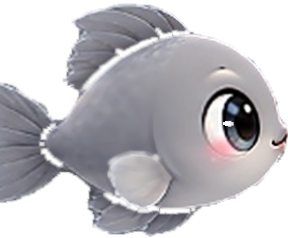
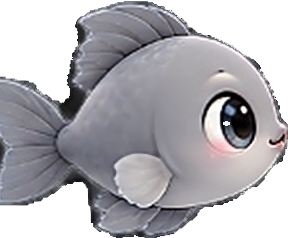
fix(sprites): restore 100% solid opacity inside fish body, preserve natural black textures, and clean only outer border fringe

diff --git a/src/components/modals/CoupleModal.tsx b/src/components/modals/CoupleModal.tsx
@@ -70,7 +70,7 @@ export function CoupleModal({ isOpen, onClose }: CoupleModalProps) {
           >
             <div className="w-14 h-14 mx-auto rounded-xl bg-white border border-[#CBD7DF] flex items-center justify-center shadow-2xs p-1.5 overflow-hidden">
               <img
-                src={`/fish/candut_stage${aquarium.current_level >= 401 ? 5 : aquarium.current_level >= 301 ? 4 : aquarium.current_level >= 201 ? 3 : aquarium.current_level >= 101 ? 2 : 1}.png?v=3`}
+                src={`/fish/candut_stage${aquarium.current_level >= 401 ? 5 : aquarium.current_level >= 301 ? 4 : aquarium.current_level >= 201 ? 3 : aquarium.current_level >= 101 ? 2 : 1}.png?v=4`}
                 alt="Candut"
                 className={`w-full h-full object-contain transition-transform ${aquarium.current_level < 101 ? 'scale-[0.84]' : ''}`}
               />
@@ -102,7 +102,7 @@ export function CoupleModal({ isOpen, onClose }: CoupleModalProps) {
           >
             <div className="w-14 h-14 mx-auto rounded-xl bg-white border border-[#F3C5D1] flex items-center justify-center shadow-2xs p-1.5 overflow-hidden">
               <img
-                src={`/fish/repa_stage${aquarium.current_level >= 401 ? 5 : aquarium.current_level >= 301 ? 4 : aquarium.current_level >= 201 ? 3 : aquarium.current_level >= 101 ? 2 : 1}.png?v=3`}
+                src={`/fish/repa_stage${aquarium.current_level >= 401 ? 5 : aquarium.current_level >= 301 ? 4 : aquarium.current_level >= 201 ? 3 : aquarium.current_level >= 101 ? 2 : 1}.png?v=4`}
                 alt="Saridut"
                 className={`w-full h-full object-contain transition-transform ${aquarium.current_level < 101 ? 'scale-[0.84]' : ''}`}
               />

diff --git a/src/components/modals/LevelRoadmapModal.tsx b/src/components/modals/LevelRoadmapModal.tsx
@@ -130,14 +130,14 @@ export function LevelRoadmapModal({ isOpen, onClose }: LevelRoadmapModalProps) {
                       <div className="flex items-center -space-x-1.5">
                         <div className="w-7 h-7 sm:w-8 sm:h-8 rounded-lg bg-white border border-[#CBD7DF] p-0.5 shadow-2xs flex items-center justify-center overflow-hidden">
                           <img
-                            src={`/fish/candut_stage${m.stage}.png?v=3`}
+                            src={`/fish/candut_stage${m.stage}.png?v=4`}
                             alt={`Candut Tahap ${m.stage}`}
                             className={`w-full h-full object-contain transition-transform ${m.stage === 1 ? 'scale-[0.80]' : ''}`}
                           />
                         </div>
                         <div className="w-7 h-7 sm:w-8 sm:h-8 rounded-lg bg-white border border-[#F3C5D1] p-0.5 shadow-2xs flex items-center justify-center overflow-hidden">
                           <img
-                            src={`/fish/repa_stage${m.stage}.png?v=3`}
+                            src={`/fish/repa_stage${m.stage}.png?v=4`}
                             alt={`Saridut Tahap ${m.stage}`}
                             className={`w-full h-full object-contain transition-transform ${m.stage === 1 ? 'scale-[0.80]' : ''}`}
                           />

diff --git a/src/components/aquarium/AquariumCanvas.tsx b/src/components/aquarium/AquariumCanvas.tsx
@@ -109,14 +109,14 @@ export function AquariumCanvas({ onTapLocation }: AquariumCanvasProps) {
       const cKey = `candut_${stage}`;
       if (!fishSpritesRef.current[cKey]) {
         const cImg = new Image();
-        cImg.src = `/fish/candut_stage${stage}.png?v=3`;
+        cImg.src = `/fish/candut_stage${stage}.png?v=4`;
         fishSpritesRef.current[cKey] = cImg;
       }
 
       const rKey = `repa_${stage}`;
       if (!fishSpritesRef.current[rKey]) {
         const rImg = new Image();
-        rImg.src = `/fish/repa_stage${stage}.png?v=3`;
+        rImg.src = `/fish/repa_stage${stage}.png?v=4`;
         fishSpritesRef.current[rKey] = rImg;
       }
     }

diff --git a/scripts/process_fish_perfect.py b/scripts/process_fish_perfect.py
@@ -5,19 +5,19 @@ from collections import deque
 
 FISH_DIR = 'public/fish'
 
-def clean_sprite_perfect(image_path, role):
-    im = Image.open(image_path).convert('RGBA')
+def process_fish_solid_and_clean_edge(img_path, role, stage):
+    im = Image.open(img_path).convert('RGBA')
     w, h = im.size
-    arr = np.array(im).astype(np.float32)
-    rgb = arr[:, :, :3]
-    alpha = arr[:, :, 3]
-
-    filename = os.path.basename(image_path)
+    arr = np.array(im)
+    rgb = arr[:, :, :3].copy()
+    alpha = arr[:, :, 3].copy()
+    
+    filename = os.path.basename(img_path)
     is_repa4 = 'repa_stage4' in filename
     is_repa5 = 'repa_stage5' in filename
     is_candut5 = 'candut_stage5' in filename
 
-    # 1. Clear known external crop/box artifacts
+    # Known rectangular crop boxes at extreme corners (transparent border padding)
     if is_repa4:
         alpha[341:, :] = 0
     if is_repa5:
@@ -28,82 +28,45 @@ def clean_sprite_perfect(image_path, role):
         alpha[390:445, 460:] = 0
         alpha[-15:, 460:] = 0
 
-    # Eliminate faint low-alpha noise
-    alpha[alpha < 18] = 0
-
-    # 2. Identify the eye region to protect black pupil and sparkling reflections
-    eye_mask = np.zeros((h, w), dtype=bool)
-    x_min, x_max = int(w * 0.62), int(w * 0.90)
-    y_min, y_max = int(h * 0.30), int(h * 0.70)
-    eye_mask[y_min:y_max, x_min:x_max] = True
-
-    # 3. Flood-fill from borders to clear any connected black background remnants
-    bg_seed = (alpha == 0)
-    dark_thresh = 65
-    bg_seed[0, :] |= (rgb[0, :, :].mean(axis=1) < dark_thresh)
-    bg_seed[-1, :] |= (rgb[-1, :, :].mean(axis=1) < dark_thresh)
-    bg_seed[:, 0] |= (rgb[:, 0, :].mean(axis=1) < dark_thresh)
-    bg_seed[:, -1] |= (rgb[:, -1, :].mean(axis=1) < dark_thresh)
-
-    bg_visited = np.zeros((h, w), dtype=bool)
+    # 1. Background identification via flood fill from 4 canvas borders
+    # Only pixels connected to canvas borders with low alpha or dark empty space are background
+    visited_bg = np.zeros((h, w), dtype=bool)
     q = deque()
+    
+    # Border pixels seed
     for y in range(h):
         for x in [0, w - 1]:
-            if bg_seed[y, x] and not bg_visited[y, x]:
-                bg_visited[y, x] = True
+            if alpha[y, x] < 60:
+                visited_bg[y, x] = True
                 q.append((y, x))
     for x in range(w):
         for y in [0, h - 1]:
-            if bg_seed[y, x] and not bg_visited[y, x]:
-                bg_visited[y, x] = True
+            if not visited_bg[y, x] and alpha[y, x] < 60:
+                visited_bg[y, x] = True
                 q.append((y, x))
 
     while q:
         cy, cx = q.popleft()
-        for dy, dx in [(-1, 0), (1, 0), (0, -1), (0, 1)]:
+        for dy, dx in [(-1,0), (1,0), (0,-1), (0,1)]:
             ny, nx = cy + dy, cx + dx
-            if 0 <= ny < h and 0 <= nx < w and not bg_visited[ny, nx]:
-                is_dark = (rgb[ny, nx].mean() < 60) and not eye_mask[ny, nx]
-                is_trans = (alpha[ny, nx] < 120)
-                if is_trans or is_dark:
-                    bg_visited[ny, nx] = True
+            if 0 <= ny < h and 0 <= nx < w and not visited_bg[ny, nx]:
+                # Background flood fill: low alpha (transparent) OR black fringe touching the outer edge
+                # STRICTLY alpha < 35 or (alpha < 100 and very low brightness < 30)
+                # NEVER penetrate solid body pixels!
+                if alpha[ny, nx] < 35 or (alpha[ny, nx] < 100 and np.mean(rgb[ny, nx]) < 30):
+                    visited_bg[ny, nx] = True
                     q.append((ny, nx))
 
-    alpha[bg_visited] = 0
+    # Fish body silhouette is EVERYTHING not reached by the outside background flood fill!
+    fish_mask = ~visited_bg
 
-    # 4. Remove dark pockets trapped between fins outside the eye
-    dark_opaque = (alpha > 0) & (rgb.mean(axis=2) < 55) & (~eye_mask)
-    if np.any(dark_opaque):
-        visited_comp = np.zeros((h, w), dtype=bool)
-        for y in range(h):
-            for x in range(w):
-                if dark_opaque[y, x] and not visited_comp[y, x]:
-                    comp = []
-                    cq = [(y, x)]
-                    visited_comp[y, x] = True
-                    while cq:
-                        py, px = cq.pop()
-                        comp.append((py, px))
-                        for dy, dx in [(-1, 0), (1, 0), (0, -1), (0, 1)]:
-                            my, mx = py + dy, px + dx
-                            if 0 <= my < h and 0 <= mx < w and dark_opaque[my, mx] and not visited_comp[my, mx]:
-                                visited_comp[my, mx] = True
-                                cq.append((my, mx))
-                    c_ys = [p[0] for p in comp]
-                    c_xs = [p[1] for p in comp]
-                    mean_x = np.mean(c_xs)
-                    if mean_x < w * 0.62 or np.mean(c_ys) < h * 0.3 or np.mean(c_ys) > h * 0.72:
-                        for py, px in comp:
-                            alpha[py, px] = 0
-
-    # 5. KEEP ONLY THE LARGEST CONNECTED COMPONENT (the fish)
-    # This automatically destroys all isolated specks, stray border lines, and floating debris
-    solid = alpha > 0
+    # Keep only the single largest connected component in fish_mask (removes isolated border dust)
+    solid_mask = fish_mask & (alpha > 30)
     visited_island = np.zeros((h, w), dtype=bool)
     max_island = []
     for y in range(h):
         for x in range(w):
-            if solid[y, x] and not visited_island[y, x]:
+            if solid_mask[y, x] and not visited_island[y, x]:
                 island = []
                 iq = [(y, x)]
                 visited_island[y, x] = True
@@ -112,61 +75,98 @@ def clean_sprite_perfect(image_path, role):
                     island.append((py, px))
                     for dy, dx in [(-1, 0), (1, 0), (0, -1), (0, 1)]:
                         my, mx = py + dy, px + dx
-                        if 0 <= my < h and 0 <= mx < w and solid[my, mx] and not visited_island[my, mx]:
+                        if 0 <= my < h and 0 <= mx < w and solid_mask[my, mx] and not visited_island[my, mx]:
                             visited_island[my, mx] = True
                             iq.append((my, mx))
                 if len(island) > len(max_island):
                     max_island = island
 
-    # Mask only the main fish
-    fish_mask = np.zeros((h, w), dtype=bool)
+    main_fish_mask = np.zeros((h, w), dtype=bool)
     for py, px in max_island:
-        fish_mask[py, px] = True
-    alpha[~fish_mask] = 0
+        main_fish_mask[py, px] = True
 
-    # 6. LOCAL COLOR BLEED (Normalized Convolution Inpainting)
-    # Candut fish body is >= 85, Repa is >= 95
-    fish_min_bright = 85 if role == 'candut' else 95
-    interior_mask = (alpha > 220) & ((rgb.mean(axis=2) >= fish_min_bright) | eye_mask)
+    # Fill any holes inside the main fish mask so the entire interior is SOLID!
+    fish_pil = Image.fromarray((main_fish_mask * 255).astype(np.uint8), mode='L')
+    # Filling holes: flood fill from corner on inverted mask
+    inv_pil = Image.eval(fish_pil, lambda a: 255 if a == 0 else 0)
+    inv_arr = np.array(inv_pil)
+    
+    bg_fill = np.zeros((h, w), dtype=bool)
+    fq = deque([(0, 0), (0, w-1), (h-1, 0), (h-1, w-1)])
+    for y, x in fq:
+        bg_fill[y, x] = True
+    while fq:
+        cy, cx = fq.popleft()
+        for dy, dx in [(-1,0), (1,0), (0,-1), (0,1)]:
+            ny, nx = cy + dy, cx + dx
+            if 0 <= ny < h and 0 <= nx < w and not bg_fill[ny, nx] and inv_arr[ny, nx] == 255:
+                bg_fill[ny, nx] = True
+                fq.append((ny, nx))
 
-    weight_img = Image.fromarray((interior_mask * 255).astype(np.uint8), mode='L')
-    color_img = Image.fromarray((rgb * interior_mask[:, :, None]).astype(np.uint8), mode='RGB')
+    # The true filled fish silhouette without ANY internal holes:
+    solid_fish_silhouette = ~bg_fill
 
-    # Local box blur with radius 5
-    blur_weight = np.array(weight_img.filter(ImageFilter.BoxBlur(5))).astype(np.float32) / 255.0
-    blur_color = np.array(color_img.filter(ImageFilter.BoxBlur(5))).astype(np.float32)
+    # 2. SEPARATE INTERIOR BODY FROM OUTER RIM
+    # Interior body: eroded by 2 pixels from silhouette
+    silhouette_img = Image.fromarray((solid_fish_silhouette * 255).astype(np.uint8), mode='L')
+    interior_mask = np.array(silhouette_img.filter(ImageFilter.MinFilter(5))) > 0 # 2px erosion
+    rim_mask = solid_fish_silhouette & (~interior_mask) # exactly the 1-2px outer boundary
 
-    local_infill = blur_color / np.clip(blur_weight[:, :, None], 0.001, 1.0)
-    local_infill = np.clip(local_infill, 0, 255)
-
-    # Rim pixels that were contaminated by black matte
-    padded_alpha = np.pad(alpha > 0, 1, mode='constant', constant_values=False)
-    has_trans_neighbor = (
-        (~padded_alpha[:-2, 1:-1]) | (~padded_alpha[2:, 1:-1]) |
-        (~padded_alpha[1:-1, :-2]) | (~padded_alpha[1:-1, 2:])
-    )
-    is_outer_rim = (alpha > 0) & (
-        (alpha < 240) |
-        (has_trans_neighbor & (rgb.mean(axis=2) < fish_min_bright) & (~eye_mask))
-    )
-
+    # In interior body:
+    # 100% PRESERVE all original colors (including black eyes, scales, shading)!
+    # 100% SET alpha = 255 (completely solid, NO TRANSPARENCY)!
+    final_alpha = np.zeros((h, w), dtype=np.uint8)
+    final_alpha[interior_mask] = 255
     final_rgb = rgb.copy()
-    rim_needs_color = is_outer_rim & ((rgb.mean(axis=2) < fish_min_bright) | (alpha < 180)) & (~eye_mask)
-    final_rgb[rim_needs_color] = local_infill[rim_needs_color]
 
-    # Smooth alpha slightly to eliminate jagged pixels and clip outer 0.75px dark rim
-    alpha_pil = Image.fromarray(alpha.astype(np.uint8), mode='L')
-    alpha_eroded = alpha_pil.filter(ImageFilter.MinFilter(3))
-    arr_orig_a = np.array(alpha_pil).astype(float)
-    arr_ero_a = np.array(alpha_eroded).astype(float)
+    # If there were any weird keyed-out pixels inside deep interior in the original (alpha == 0),
+    # inpaint their RGB from neighbors so they aren't black/white spots
+    deep_zero = interior_mask & (alpha == 0)
+    if np.sum(deep_zero) > 0:
+        for y, x in zip(*np.where(deep_zero)):
+            y1, y2 = max(0, y-2), min(h, y+3)
+            x1, x2 = max(0, x-2), min(w, x+3)
+            valid = (alpha[y1:y2, x1:x2] > 50) & interior_mask[y1:y2, x1:x2]
+            if np.sum(valid) > 0:
+                final_rgb[y, x] = np.mean(final_rgb[y1:y2, x1:x2][valid], axis=0).astype(np.uint8)
 
-    final_alpha = np.clip(arr_orig_a * 0.35 + arr_ero_a * 0.65, 0, 255)
-    final_alpha[final_alpha < 20] = 0
+    # 3. CLEAN ONLY THE RIM (GARIS PINGGIR HITAM)
+    # On the rim, if a pixel is dark fringe (contaminated by black background),
+    # sample color from the neighboring interior fish pixels!
+    # And give it clean anti-aliased edge alpha.
+    for y, x in zip(*np.where(rim_mask)):
+        y1, y2 = max(0, y-2), min(h, y+3)
+        x1, x2 = max(0, x-2), min(w, x+3)
+        nbr_interior = interior_mask[y1:y2, x1:x2]
+        
+        orig_color = rgb[y, x]
+        orig_bright = np.mean(orig_color)
+        
+        if np.sum(nbr_interior) > 0:
+            nbr_colors = final_rgb[y1:y2, x1:x2][nbr_interior]
+            nbr_mean_bright = np.mean(nbr_colors)
+            
+            # If the rim pixel is significantly darker than its interior neighbor, it's a black fringe!
+            if orig_bright < 65 and nbr_mean_bright > 80:
+                # Replace contaminated black border color with the clean fish interior color!
+                final_rgb[y, x] = np.mean(nbr_colors, axis=0).astype(np.uint8)
+                final_alpha[y, x] = 200 # smooth clean edge
+            elif orig_bright < 40:
+                final_rgb[y, x] = np.mean(nbr_colors, axis=0).astype(np.uint8)
+                final_alpha[y, x] = 180
+            else:
+                # Already a clean color: keep original color, set solid/smooth alpha
+                final_alpha[y, x] = max(190, alpha[y, x])
+        else:
+            final_alpha[y, x] = max(160, alpha[y, x])
 
-    result = np.dstack([final_rgb, final_alpha]).astype(np.uint8)
-    return Image.fromarray(result, mode='RGBA')
+    # Outside the silhouette: 100% transparent
+    final_alpha[~solid_fish_silhouette] = 0
 
-def make_chibi_baby_sprite(clean_im, role):
+    clean_im = Image.fromarray(np.dstack([final_rgb, final_alpha]), mode='RGBA')
+    return clean_im
+
+def make_chibi_baby_sprite_solid(clean_im, role):
     w, h = clean_im.size
     arr = np.array(clean_im).astype(np.float32)
 
@@ -248,51 +248,13 @@ def make_chibi_baby_sprite(clean_im, role):
     sparkle_draw.ellipse([sp_x - 3, sp_y - 2, sp_x + 3, sp_y + 2], fill=(255, 255, 255, 240))
     sp2_x = int(w * 0.755)
     sp2_y = int(h * 0.44)
-    sparkle_draw.ellipse([sp2_x - 1, sp2_y - 1, sp2_x + 2, sp2_y + 2], fill=(255, 255, 255, 220))
+    sparkle_draw.ellipse([sp2_x - 1.5, sp2_y - 1.5, sp2_x + 1.5, sp2_y + 1.5], fill=(255, 255, 255, 230))
     warped_im = Image.alpha_composite(warped_im, sparkle_overlay)
 
-    return warped_im
+    # Ensure body inside baby remains 100% SOLID OPAQUE (alpha = 255)
+    baby_arr = np.array(warped_im)
+    baby_a = baby_arr[:, :, 3]
+    baby_arr[baby_a > 128, 3] = 255
+    baby_arr[(baby_a > 0) & (baby_a <= 128), 3] = np.clip(baby_a[(baby_a > 0) & (baby_a <= 128)] * 1.5, 0, 255).astype(np.uint8)
 
-def main():
-    print('Processing all sprites...')
-    sprites = {}
-    for role in ['candut', 'repa']:
-        for stage in range(1, 6):
-            orig_path = os.path.join(FISH_DIR, f'{role}_stage{stage}.png')
-            key = f'{role}_stage{stage}'
-            cleaned = clean_sprite_perfect(orig_path, role)
-            sprites[key] = cleaned
-
-    # Make Stage 1 distinctly baby
-    for role in ['candut', 'repa']:
-        baby = make_chibi_baby_sprite(sprites[f'{role}_stage1'], role)
-        sprites[f'{role}_stage1'] = baby
-
-    # Save all 10 fish sprites
-    for key, img in sprites.items():
-        out_path = os.path.join(FISH_DIR, f'{key}.png')
-        img.save(out_path, 'PNG', optimize=True)
-        print(f'Saved {out_path}')
-
-    # Generate full 5-stage preview grid
-    grid = Image.new('RGB', (1500, 640), (240, 245, 250))
-    for col, s in enumerate(range(1, 6)):
-        c_img = Image.open(os.path.join(FISH_DIR, f'candut_stage{s}.png'))
-        r_img = Image.open(os.path.join(FISH_DIR, f'repa_stage{s}.png'))
-        c_img.thumbnail((260, 260), Image.Resampling.LANCZOS)
-        r_img.thumbnail((260, 260), Image.Resampling.LANCZOS)
-
-        cx = col * 300 + (300 - c_img.width) // 2
-        cy = 20 + (260 - c_img.height) // 2
-        grid.paste(c_img, (cx, cy), c_img)
-
-        rx = col * 300 + (300 - r_img.width) // 2
-        ry = 340 + (260 - r_img.height) // 2
-        grid.paste(r_img, (rx, ry), r_img)
-
-    grid.save('public/fish_preview_cleaned.png')
-    print('Updated public/fish_preview_cleaned.png successfully')
-
-if __name__ == '__main__':
-    main()
-
+    return Image.fromarray(baby_arr, mode='RGBA')
